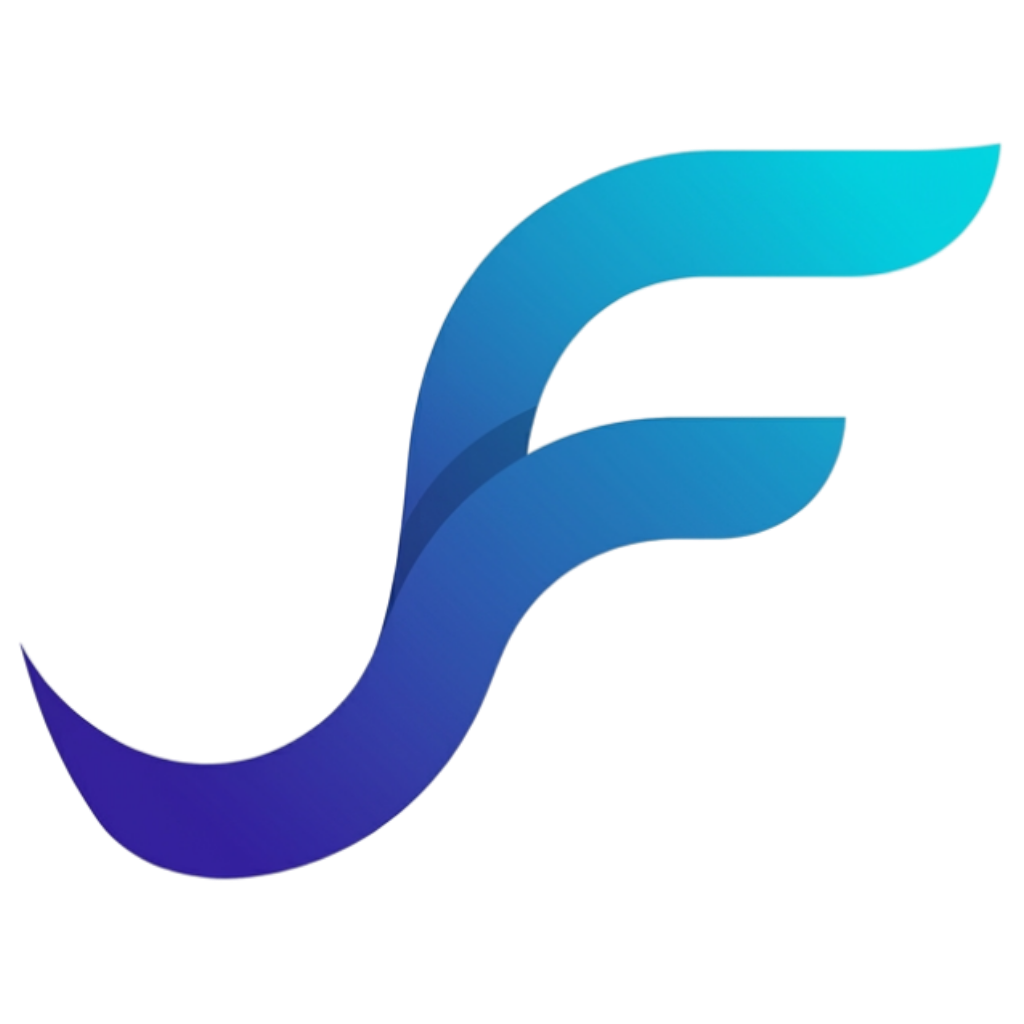
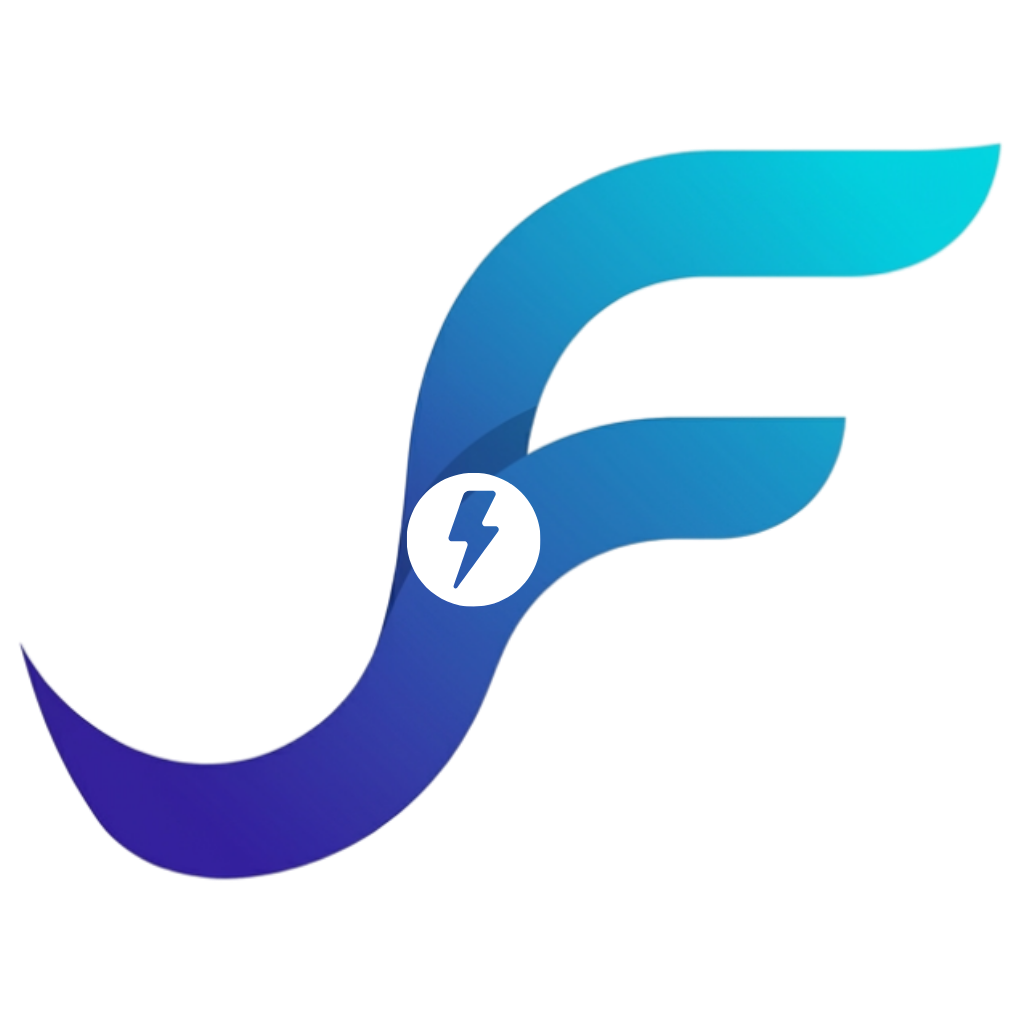
melhorias gerais nas imagens

Changed region(s): [[0.375, 0.4375, 0.5312, 0.5938]]

diff --git a/src/screens/Tasks/filter.ts b/src/screens/Tasks/filter.ts
@@ -61,9 +61,7 @@ export default function FilterTasksToShow(tasks: Task[]): any {
   const todayKey = localDateKey(now);
 
   return {
-    concludedTasks: tasks.filter((task) => {
-      return isCompletedToday(task, todayKey) && isDueToday(task, now, todayKey);
-    }),
+    concludedTasks: tasks.filter((task) => isCompletedToday(task, todayKey) && isDueToday(task, now, todayKey)),
 
     visibleTasks: tasks.filter((task) => {
       if (isCompletedToday(task, todayKey)) return false;